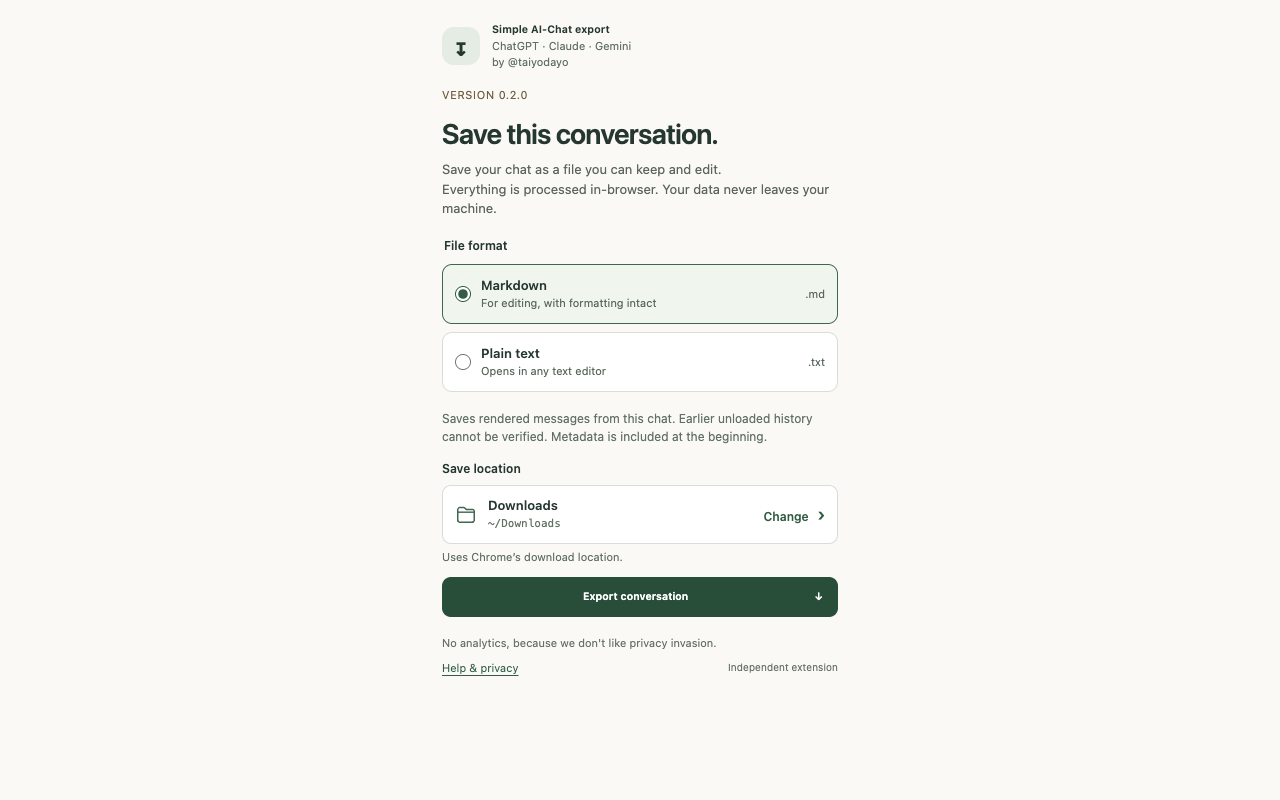
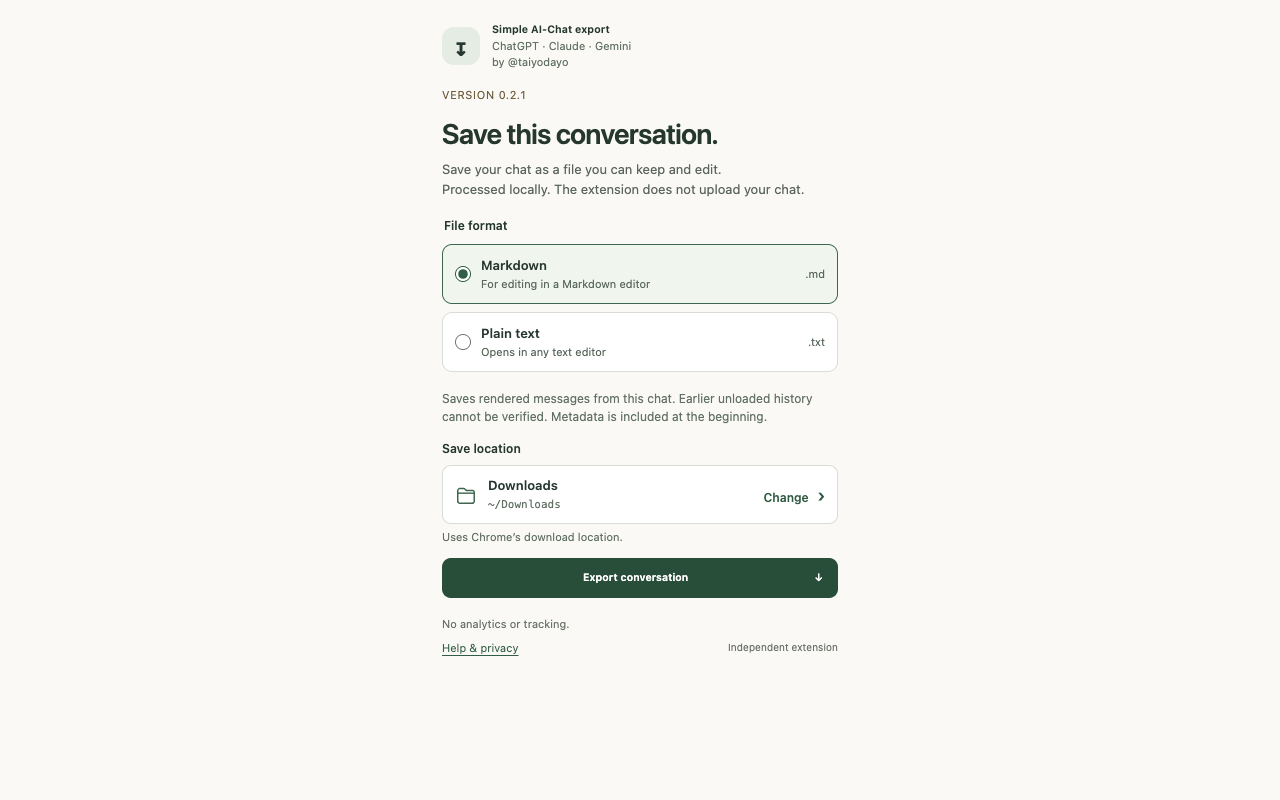
docs: refresh store screenshots and installation guidance

Changed region(s): [[0.3438, 0.2188, 0.6562, 0.8438], [0.625, 0.3125, 0.6562, 0.4688], [0.5938, 0.5938, 0.6562, 0.6562]]

diff --git a/scripts/store-assets.js b/scripts/store-assets.js
@@ -49,20 +49,46 @@ try {
     url,
   );
   await page.goto(`chrome-extension://${id}/popup.html?tab=${tabId}`);
+  if (
+    (await page.locator("#prototype").textContent()) !==
+    `Version ${manifest.version}`
+  )
+    throw new Error("Screenshot UI version does not match the manifest");
   await page.screenshot({ path: join(output, "01-export.png") });
+  const downloading = page.waitForEvent("download");
   await page.getByRole("button", { name: /Export conversation/ }).click();
-  await page.locator("#success").waitFor({ state: "visible" });
-  await page.screenshot({ path: join(output, "02-saved.png") });
-  const downloads = await page.evaluate(() =>
-    chrome.downloads.search({ state: "complete" }),
+  // Only the external Playwright runner observes completion. The extension's
+  // ordinary download anchor cannot observe a save or cancellation afterward.
+  const download = await downloading;
+  if (await download.failure())
+    throw new Error("Synthetic native download did not complete");
+  const bytes = await readFile(await download.path());
+  const text = new TextDecoder("utf-8", { fatal: true }).decode(bytes);
+  const metadataBlock = text.match(
+    /^# Export metadata\n\n```json\n([\s\S]*?)\n```/,
   );
-  // This fresh, isolated profile contains only the export started above.
-  const own = downloads;
-  if (own.length !== 1) throw new Error("Synthetic save was not confirmed");
-  const text = await readFile(own[0].filename, "utf8");
-  if (!text.includes('"version": "0.2.0"') || !text.includes("日本語 ☕"))
-    throw new Error("Synthetic export verification failed");
-  await rm(own[0].filename, { force: true });
+  const metadata = metadataBlock ? JSON.parse(metadataBlock[1]) : null;
+  if (
+    metadata?.exporter?.version !== manifest.version ||
+    metadata?.messageCount !== 2 ||
+    !download.suggestedFilename().endsWith(".md") ||
+    !text.includes("日本語 ☕") ||
+    !text.includes('const tea = "earl grey";\n  console.log(tea);') ||
+    !text.includes("Read a page") ||
+    !text.includes("Step outside")
+  )
+    throw new Error("Synthetic export byte verification failed");
+  await download.delete();
+  await page.locator("#success").waitFor({ state: "visible" });
+  if (
+    (await page.locator("#status-title").textContent()) !==
+      "Download started" ||
+    !(await page.locator("#status-body").textContent()).includes(
+      "Completion isn’t confirmed here",
+    )
+  )
+    throw new Error("Screenshot UI does not describe native handoff honestly");
+  await page.screenshot({ path: join(output, "02-saved.png") });
   await cp(resolve("extension/icon-128.png"), join(output, "icon-128.png"));
   const promo = await page.evaluate(() => {
     const canvas = document.createElement("canvas");

diff --git a/site/index.html b/site/index.html
@@ -19,9 +19,9 @@
         Claude, Gemini</a
       >
       <nav aria-label="Main">
+        <a class="support-link" href="#install">Install</a>
         <a href="#how">How it works</a><a href="#help">Help</a
         ><a
-          class="support-link"
           href="https://buymeacoffee.com/taiyodayo"
           target="_blank"
           rel="noopener noreferrer"
@@ -136,7 +136,7 @@
       <section id="help" class="faq">
         <p class="eyebrow">A little practical help</p>
         <h2>Before you export.</h2>
-        <details>
+        <details id="install" open>
           <summary>How do I install it?</summary>
           <p>
             The Chrome Web Store install link will appear after approval. No

diff --git a/tests/browser/site.spec.js b/tests/browser/site.spec.js
@@ -17,7 +17,8 @@ test("support page is honest about production status, licence and store availabi
   expect(
     await page.getByRole("link", { name: /Buy me a coffee/ }).count(),
   ).toBe(2);
-  await page.getByText("How do I install it?", { exact: true }).click();
+  await page.getByRole("link", { name: "Install", exact: true }).click();
+  await expect(page.locator("#install")).toHaveAttribute("open", "");
   await expect(
     page.getByText("No store listing is live yet.", { exact: false }),
   ).toBeVisible();

diff --git a/docs/ADVERSARIAL_REVIEW.md b/docs/ADVERSARIAL_REVIEW.md
@@ -33,8 +33,8 @@ The independent audit captured and inspected 29 screenshots, including original 
 
 | Step                   | Health / finding                                                                                          |
 | ---------------------- | --------------------------------------------------------------------------------------------------------- |
-| 1. Discover product    | Needs a prominent installation action; coffee is currently the first-screen action.                       |
-| 2. Install             | Usable instructions once found; improve discovery from the hero.                                          |
+| 1. Discover product    | A prominent Install action now precedes coffee in navigation.                                             |
+| 2. Install             | Install jumps to expanded installation instructions.                                                      |
 | 3. Open supported chat | Clear wrong-page/sign-in recovery.                                                                        |
 | 4. Choose format       | Keyboard radios work; misleading formatting-intact copy tightened.                                        |
 | 5. Choose folder       | Selection/reset and narrow reflow work; default path is illustrative because Chrome settings can differ.  |
@@ -46,7 +46,7 @@ The independent audit captured and inspected 29 screenshots, including original 
 | 11. Help               | Comprehensive; a short topic index would improve scanning.                                                |
 | 12. Privacy            | Detailed caveats belong here; trim repeated landing-page prose rather than adding more prompts.           |
 
-Highest-value next UI improvement: a visible installation action. Preserve the existing restrained design and voluntary post-export coffee placement. Do not add settings, nags, tracking or promises that all users will donate.
+The visible installation action is implemented; showing the actual filename/destination is a remaining improvement. Preserve the existing restrained design and voluntary post-export coffee placement. Do not add settings, nags, tracking or promises that all users will donate.
 
 ## Store operation
 

diff --git a/docs/STORE_RESUBMISSION.md b/docs/STORE_RESUBMISSION.md
@@ -6,8 +6,9 @@ Use existing item `hnolfghceldfcghkcfnfafainiiodkhl`. Version 0.2.0 was rejected
 2. Confirm version **0.2.1** and permissions **activeTab** and **scripting**. Optional Deep Research sandbox access remains unchanged. There must be no downloads permission.
 3. In **Privacy practices**, remove any obsolete downloads justification left after upload. Keep the single purpose, activeTab/scripting justifications and privacy URL. Select **No remote code**.
 4. Keep **Personal communications**, **Web history** and **Website content** selected: local processing still requires disclosure. Keep all three Limited Use certifications checked.
-5. Replace reviewer instructions with [store/reviewer-instructions.txt](../store/reviewer-instructions.txt), which fits the 500-character field. It explicitly explains the permission removal and test flow.
-6. Save the draft and submit for review. Choose automatic publication after approval if desired. Keep the existing verified public contact; no physical address is required for this free Non-trader extension.
+5. Replace the listing screenshots with `store/assets/01-export.png` and `store/assets/02-saved.png`; these show version 0.2.1 and truthful Download started status.
+6. Replace reviewer instructions with [store/reviewer-instructions.txt](../store/reviewer-instructions.txt), which fits the 500-character field. It explicitly explains the permission removal and test flow.
+7. Save the draft and submit for review. Choose automatic publication after approval if desired. Keep the existing verified public contact; no physical address is required for this free Non-trader extension.
 
 If a response/appeal text field is offered, use:
 
